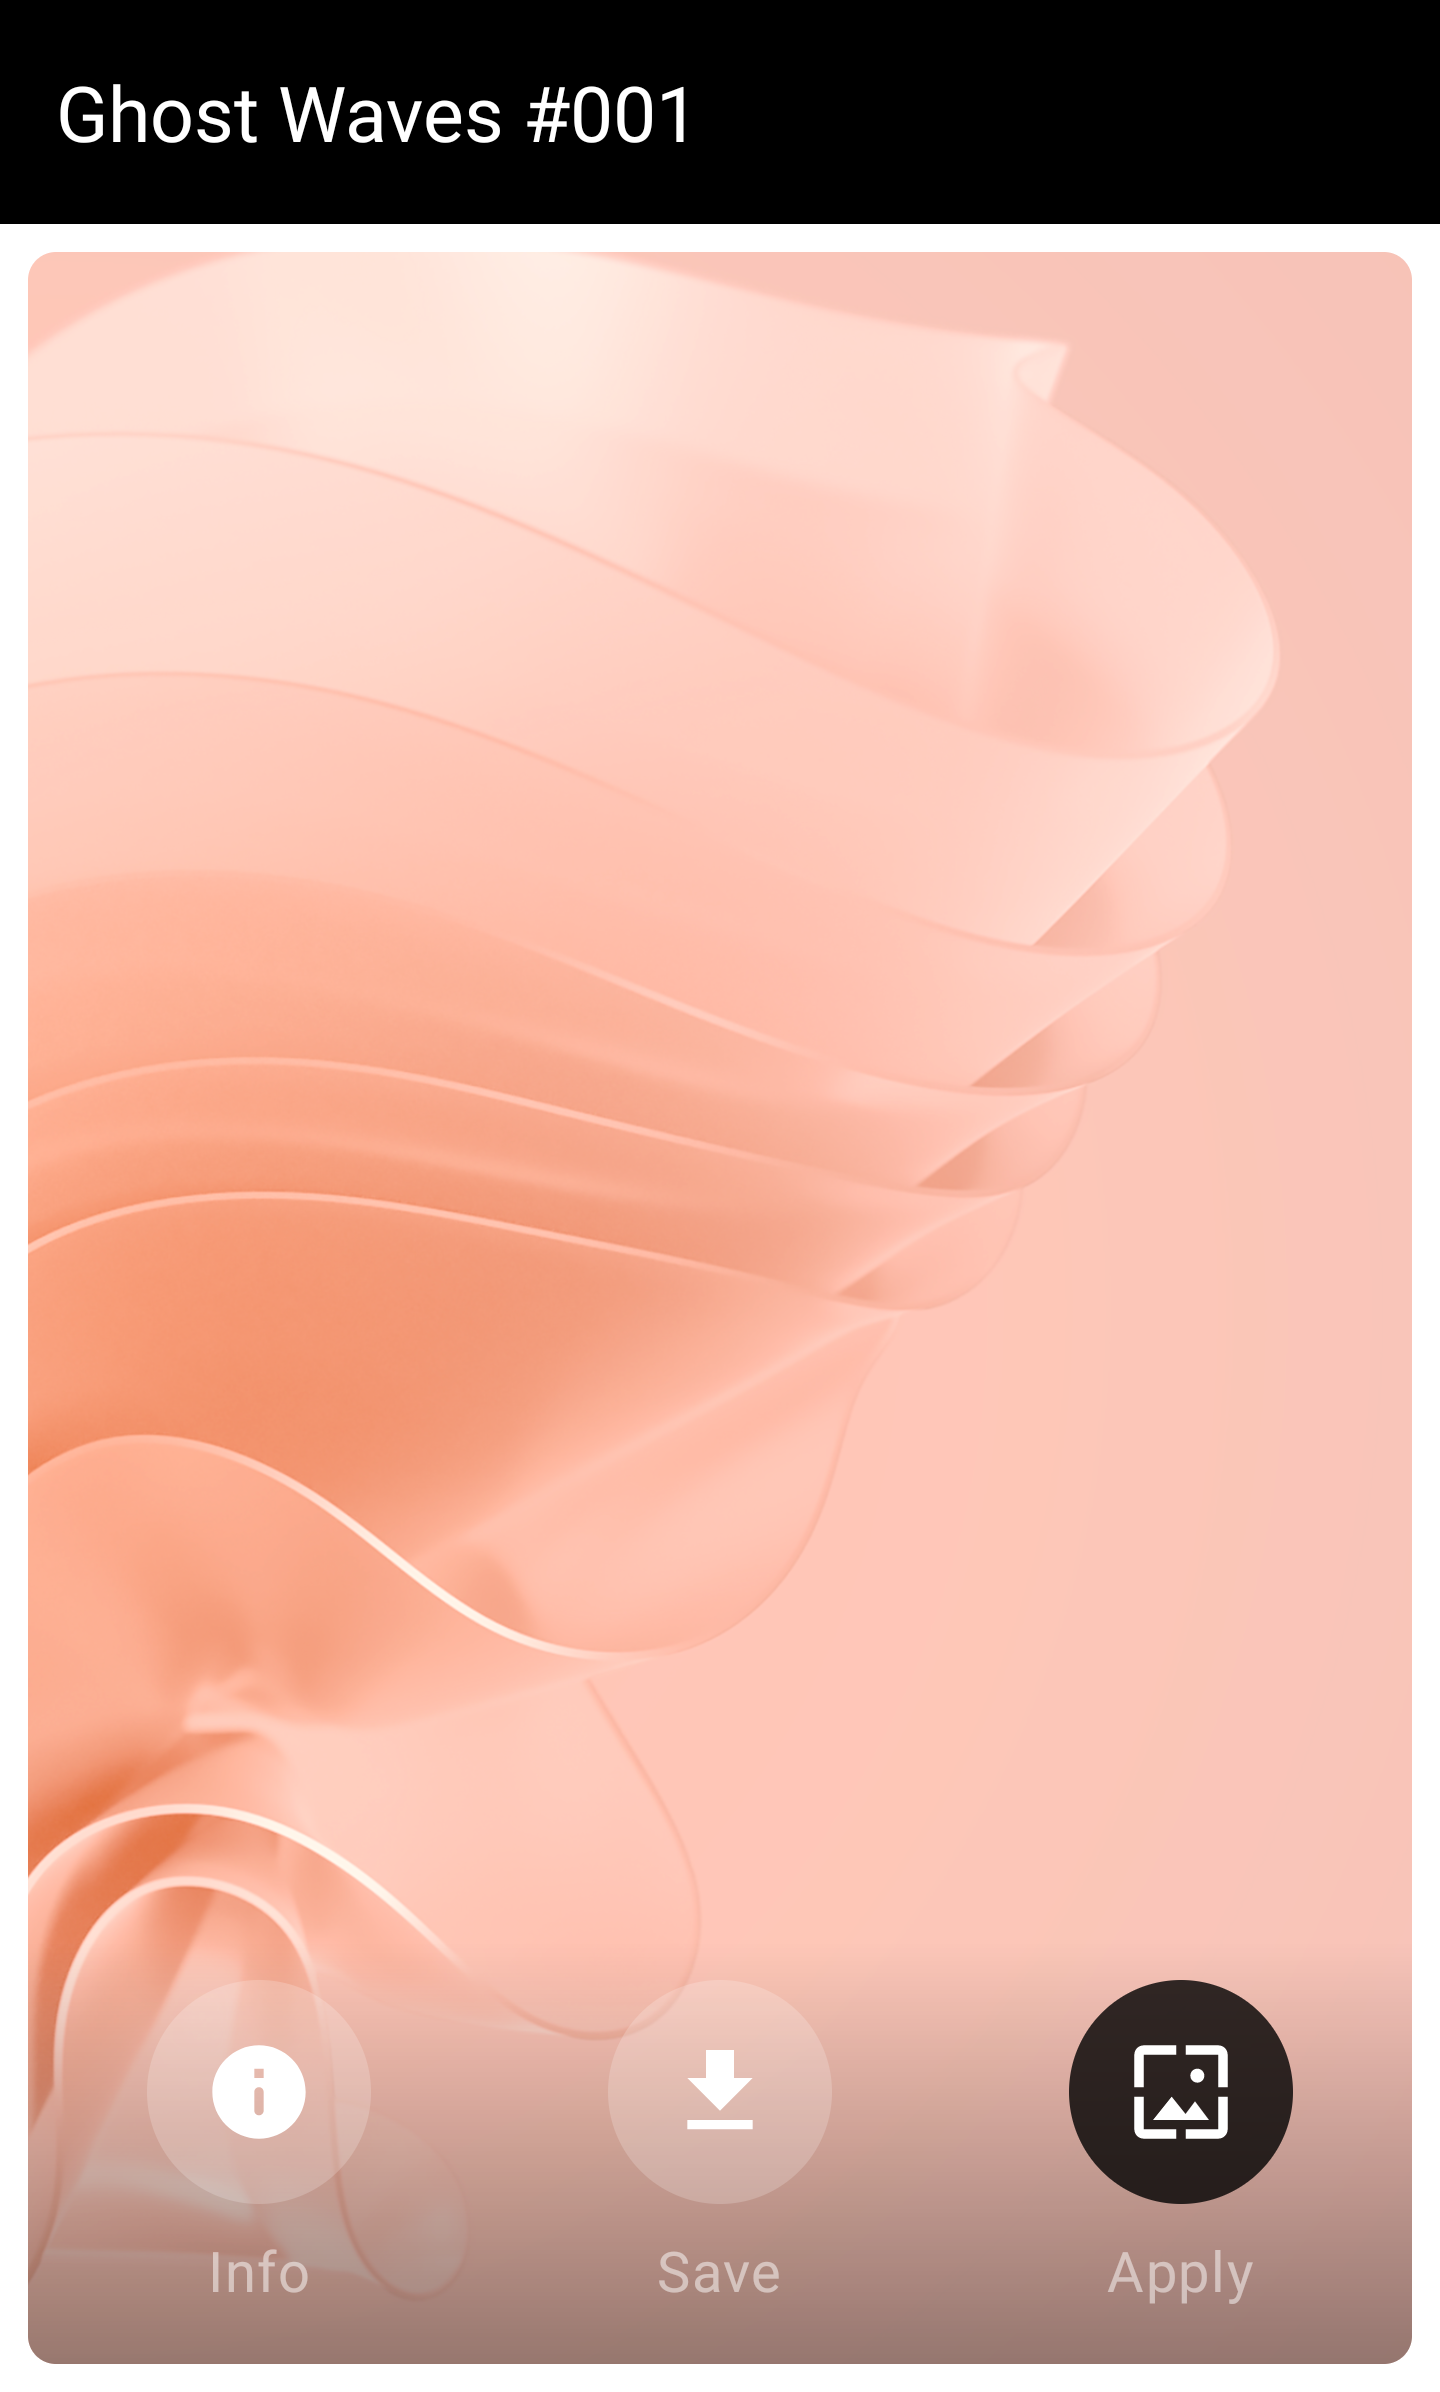
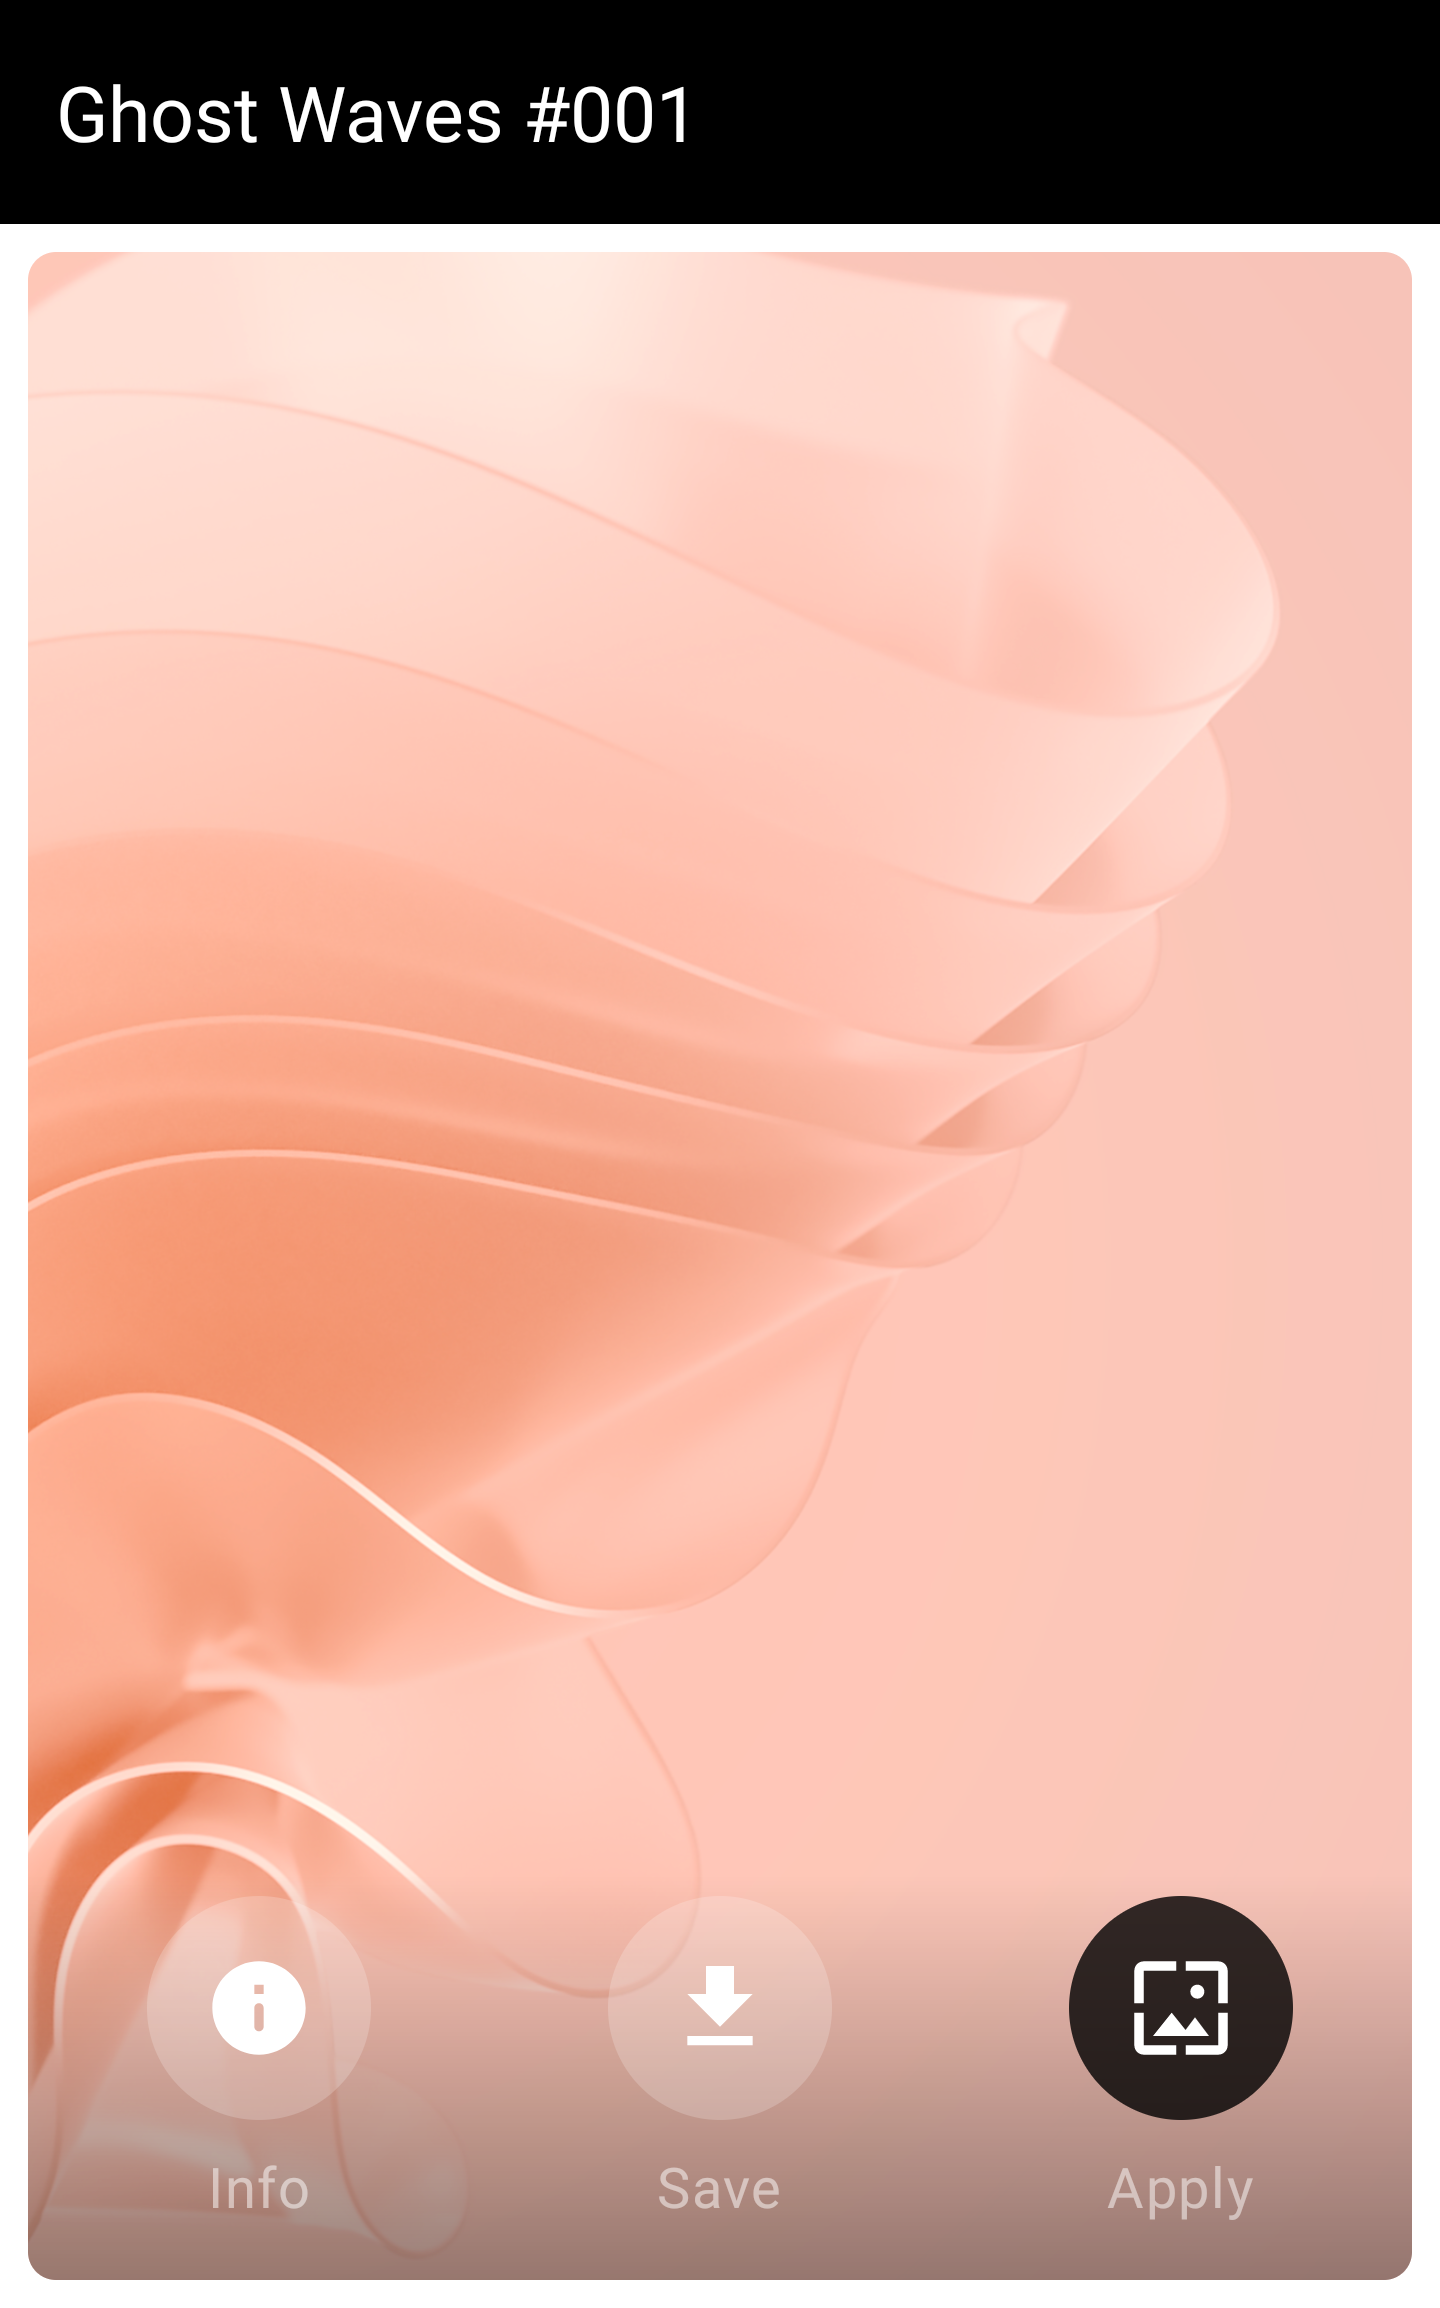
#15 Adds Wallpaper info and tests

diff --git a/app/src/main/java/com/sefford/artdrian/wallpaperdetail/ui/WallpaperDetailView.kt b/app/src/main/java/com/sefford/artdrian/wallpaperdetail/ui/WallpaperDetailView.kt
@@ -3,17 +3,24 @@ package com.sefford.artdrian.wallpaperdetail.ui
 import android.Manifest
 import android.os.Build
 import androidx.annotation.StringRes
+import androidx.compose.animation.*
+import androidx.compose.animation.core.animateFloatAsState
+import androidx.compose.animation.core.tween
 import androidx.compose.foundation.background
 import androidx.compose.foundation.layout.*
 import androidx.compose.foundation.shape.CircleShape
 import androidx.compose.foundation.shape.RoundedCornerShape
 import androidx.compose.material.icons.Icons
+import androidx.compose.material.icons.filled.Close
 import androidx.compose.material.icons.filled.Wallpaper
 import androidx.compose.material.icons.rounded.Info
 import androidx.compose.material.icons.rounded.QuestionMark
 import androidx.compose.material.icons.sharp.Download
 import androidx.compose.material3.*
 import androidx.compose.runtime.Composable
+import androidx.compose.runtime.getValue
+import androidx.compose.runtime.mutableStateOf
+import androidx.compose.runtime.remember
 import androidx.compose.ui.Alignment
 import androidx.compose.ui.Modifier
 import androidx.compose.ui.draw.clip
@@ -22,6 +29,7 @@ import androidx.compose.ui.graphics.Color
 import androidx.compose.ui.graphics.vector.ImageVector
 import androidx.compose.ui.layout.ContentScale
 import androidx.compose.ui.res.stringResource
+import androidx.compose.ui.text.font.FontWeight
 import androidx.compose.ui.text.style.TextAlign
 import androidx.compose.ui.tooling.preview.Preview
 import androidx.compose.ui.unit.dp
@@ -32,6 +40,7 @@ import com.sefford.artdrian.R
 import com.sefford.artdrian.model.Wallpaper
 import com.sefford.artdrian.ui.theme.*
 import com.sefford.artdrian.utils.isAtLeastAPI
+import com.sefford.artdrian.wallpaperdetail.ui.ContentMode.*
 import com.sefford.artdrian.wallpaperdetail.ui.WallpaperDetailViewModel.ViewState
 import java.text.SimpleDateFormat
 import java.util.*
@@ -92,10 +101,12 @@ private fun ShowWallpaper(
     onSaveClicked: () -> Unit = {},
     onApplyClicked: () -> Unit = {}
 ) {
+    val (mode, setMode) = remember { mutableStateOf(ACTIONS) }
     Box(
         modifier = Modifier
             .padding(8.dp)
-            .clip(RoundedCornerShape(8.dp))
+            .clip(RoundedCornerShape(8.dp)),
+        contentAlignment = Alignment.BottomCenter
     ) {
         AsyncImage(
             modifier = Modifier
@@ -105,27 +116,100 @@ private fun ShowWallpaper(
             contentDescription = wallpaper.name,
             contentScale = ContentScale.Crop
         )
-        Box(
-            modifier = Modifier
-                .align(Alignment.BottomCenter)
-                .fillMaxWidth()
-                .fillMaxHeight(0.2f)
-                .background(Brush.verticalGradient(listOf(Color.Transparent, Black40)))
-                .clip(RoundedCornerShape(8.dp)),
+        val gradientOrigin: Float by animateFloatAsState(
+            when (mode) {
+                ACTIONS -> 0.8f
+                INFO -> 0f
+            }
         )
-        Row(
-            modifier = Modifier
-                .align(Alignment.BottomCenter)
-                .padding(bottom = 16.dp)
-                .fillMaxWidth(),
-            horizontalArrangement = Arrangement.SpaceAround,
+        InfoOverlay(gradientOrigin, mode, wallpaper)
+        ButtonRow(mode, setMode, onSaveClicked, onApplyClicked)
+    }
+}
+
+@Composable
+private fun InfoOverlay(
+    gradientOrigin: Float,
+    mode: ContentMode,
+    wallpaper: Wallpaper
+) {
+    Column(
+        modifier = Modifier
+            .fillMaxWidth()
+            .fillMaxHeight()
+            .background(
+                Brush.verticalGradient(
+                    gradientOrigin to Color.Transparent,
+                    1f to Black40
+                )
+            )
+            .padding(start = 16.dp)
+            .clip(RoundedCornerShape(8.dp)),
+        verticalArrangement = Arrangement.Center,
+        horizontalAlignment = Alignment.Start
+    ) {
+        AnimatedVisibility(
+            visible = mode == INFO,
+            enter = slideInVertically(tween(), initialOffsetY = { it / 2 }) + fadeIn(tween()),
+            exit = slideOutVertically(targetOffsetY = { it / 2 }) + fadeOut()
         ) {
-            ButtonWithLabel(
-                icon = Icons.Rounded.Info,
-                buttonText = R.string.detail_info_button,
-                buttonColor = White20,
-                iconTint = Color.White
-            ) {}
+            Text(wallpaper.name, fontWeight = FontWeight.Bold, style = Typography.headlineLarge)
+        }
+        Spacer(modifier = Modifier.height(24.dp))
+        AnimatedVisibility(
+            visible = mode == INFO,
+            enter = slideInVertically(
+                tween(delayMillis = 100), initialOffsetY = { it / 2 }) + fadeIn(
+                tween(delayMillis = 100)
+            ),
+            exit = slideOutVertically(targetOffsetY = { it / 2 }) + fadeOut()
+        ) {
+            Text(
+                stringResource(id = R.string.detail_info_downloads, wallpaper.metadata.downloads),
+                fontWeight = FontWeight.Bold
+            )
+        }
+        AnimatedVisibility(
+            visible = mode == INFO,
+            enter = slideInVertically(
+                tween(delayMillis = 200), initialOffsetY = { it / 2 }) + fadeIn(
+                tween(delayMillis = 200)
+            ),
+            exit = slideOutVertically(targetOffsetY = { it / 2 }) + fadeOut()
+        ) {
+            Text(stringResource(R.string.detail_info_copyright), fontWeight = FontWeight.Bold, style = Typography.bodySmall)
+        }
+    }
+}
+
+@Composable
+private fun ButtonRow(
+    mode: ContentMode,
+    setMode: (ContentMode) -> Unit,
+    onSaveClicked: () -> Unit,
+    onApplyClicked: () -> Unit
+) {
+    Row(
+        modifier = Modifier.Companion
+            .padding(bottom = 16.dp)
+            .fillMaxWidth(),
+        horizontalArrangement = Arrangement.SpaceAround,
+    ) {
+        ButtonWithLabel(
+            icon = when (mode) {
+                ACTIONS -> Icons.Rounded.Info
+                INFO -> Icons.Default.Close
+            },
+            buttonText = when (mode) {
+                ACTIONS -> R.string.detail_info_button
+                INFO -> R.string.detail_close_button
+            },
+            buttonColor = White20,
+            iconTint = Color.White
+        ) {
+            setMode(if (mode == ACTIONS) INFO else ACTIONS)
+        }
+        AnimatedButtonWithLabel(mode) {
             ButtonWithLabel(
                 icon = Icons.Sharp.Download,
                 buttonText = R.string.detail_save_button,
@@ -133,6 +217,8 @@ private fun ShowWallpaper(
                 iconTint = Color.White,
                 onClick = decorateWithPermissions(onSaveClicked)
             )
+        }
+        AnimatedButtonWithLabel(mode) {
             ButtonWithLabel(
                 icon = Icons.Default.Wallpaper,
                 buttonText = R.string.detail_apply_button,
@@ -142,6 +228,28 @@ private fun ShowWallpaper(
             )
         }
     }
+}
+
+@Composable
+@OptIn(ExperimentalAnimationApi::class)
+private fun AnimatedButtonWithLabel(
+    mode: ContentMode,
+    content: @Composable () -> Unit,
+) {
+    AnimatedContent(
+        targetState = mode,
+        transitionSpec = { scaleIn() with scaleOut() }
+    ) { animatedMode ->
+        when (animatedMode) {
+            ACTIONS -> content()
+            INFO -> Spacer(modifier = Modifier.width(64.dp))
+        }
+    }
+}
+
+private enum class ContentMode {
+    ACTIONS,
+    INFO
 }
 
 @Composable
@@ -166,6 +274,7 @@ private fun decorateWithPermissions(onPermissionsGranted: () -> Unit): () -> Uni
     }
 }
 
+@OptIn(ExperimentalAnimationApi::class)
 @Composable
 private fun ButtonWithLabel(
     icon: ImageVector,
@@ -183,10 +292,23 @@ private fun ButtonWithLabel(
             colors = ButtonDefaults.buttonColors(containerColor = buttonColor),
             contentPadding = PaddingValues(16.dp)
         ) {
-            Icon(icon, modifier = Modifier.size(48.dp), contentDescription = stringResource(buttonText), tint = iconTint)
+            AnimatedContent(
+                targetState = icon,
+                transitionSpec = { scaleIn() + fadeIn() with scaleOut() + fadeOut() }
+            ) { buttonIcon ->
+                Icon(
+                    buttonIcon,
+                    modifier = Modifier.size(48.dp),
+                    contentDescription = stringResource(buttonText),
+                    tint = iconTint
+                )
+            }
         }
         Spacer(modifier = Modifier.height(8.dp))
-        Text(text = stringResource(buttonText), color = White50)
+        AnimatedContent(
+            targetState = buttonText,
+            transitionSpec = { scaleIn() + fadeIn() with scaleOut() + fadeOut() }
+        ) { text -> Text(text = stringResource(text), color = White50) }
     }
 }
 

diff --git a/app/src/androidTest/java/com/sefford/artdrian/wallpaperdetail/ui/WallpaperDetailViewTest.kt b/app/src/androidTest/java/com/sefford/artdrian/wallpaperdetail/ui/WallpaperDetailViewTest.kt
@@ -1,13 +1,19 @@
 package com.sefford.artdrian.wallpaperdetail.ui
 
+import android.content.Context
+import androidx.compose.ui.platform.LocalContext
 import androidx.compose.ui.test.junit4.createComposeRule
+import androidx.compose.ui.test.onNodeWithContentDescription
+import androidx.compose.ui.test.performClick
 import com.karumi.shot.ScreenshotTest
+import com.sefford.artdrian.R
 import com.sefford.artdrian.WallpaperMother
-import com.sefford.artdrian.wallpaperdetail.ui.WallpaperDetailViewModel.ViewState.*
+import com.sefford.artdrian.wallpaperdetail.ui.WallpaperDetailViewModel.ViewState.Content
+import com.sefford.artdrian.wallpaperdetail.ui.WallpaperDetailViewModel.ViewState.Loading
 import org.junit.Rule
 import org.junit.Test
 
-internal class WallpaperDetailViewTest : ScreenshotTest {
+class WallpaperDetailViewTest : ScreenshotTest {
 
     @get:Rule
     val composeTestRule = createComposeRule()
@@ -33,6 +39,22 @@ internal class WallpaperDetailViewTest : ScreenshotTest {
 
         compareScreenshot(composeTestRule)
     }
+
+    @Test
+    fun rendersWallpaperDetailScreenInfo() {
+        var context: Context? = null
+        composeTestRule.setContent {
+            context = LocalContext.current
+            WallpaperDetailScreen(Content(WallpaperMother.WALLPAPER_LIST.first()), ANY_TITLE)
+        }
+
+        composeTestRule.onNodeWithContentDescription(
+            context!!.getString(R.string.detail_info_button)
+        ).performClick()
+
+        compareScreenshot(composeTestRule)
+    }
+
 
     private companion object {
         const val ANY_TITLE = "Test #001"
